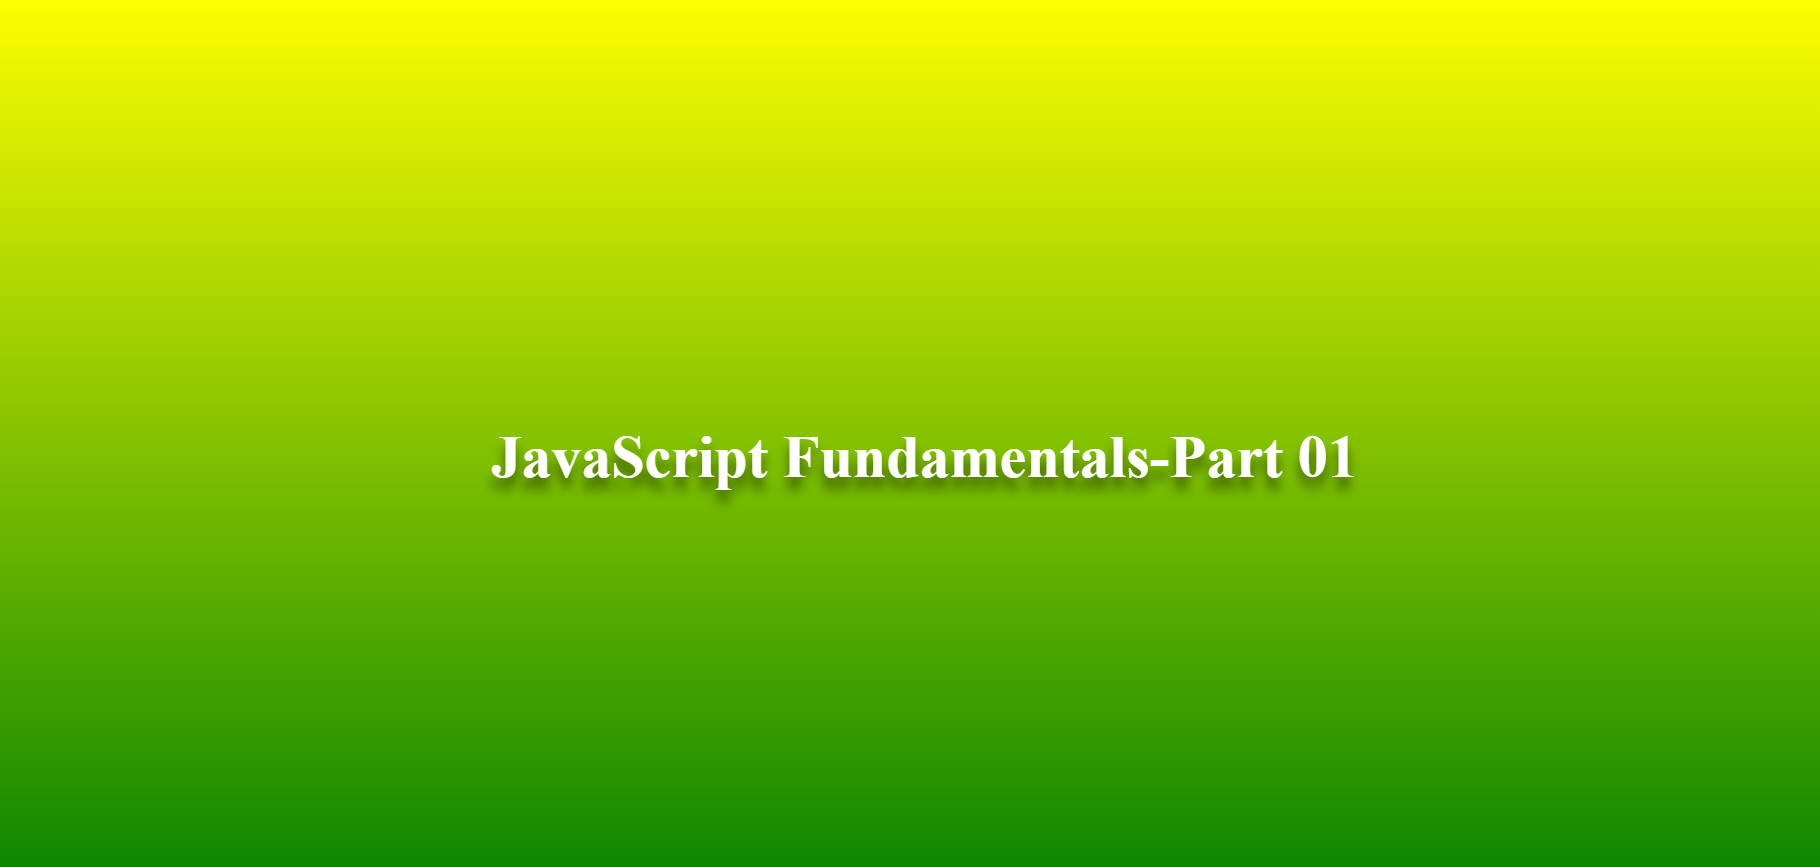
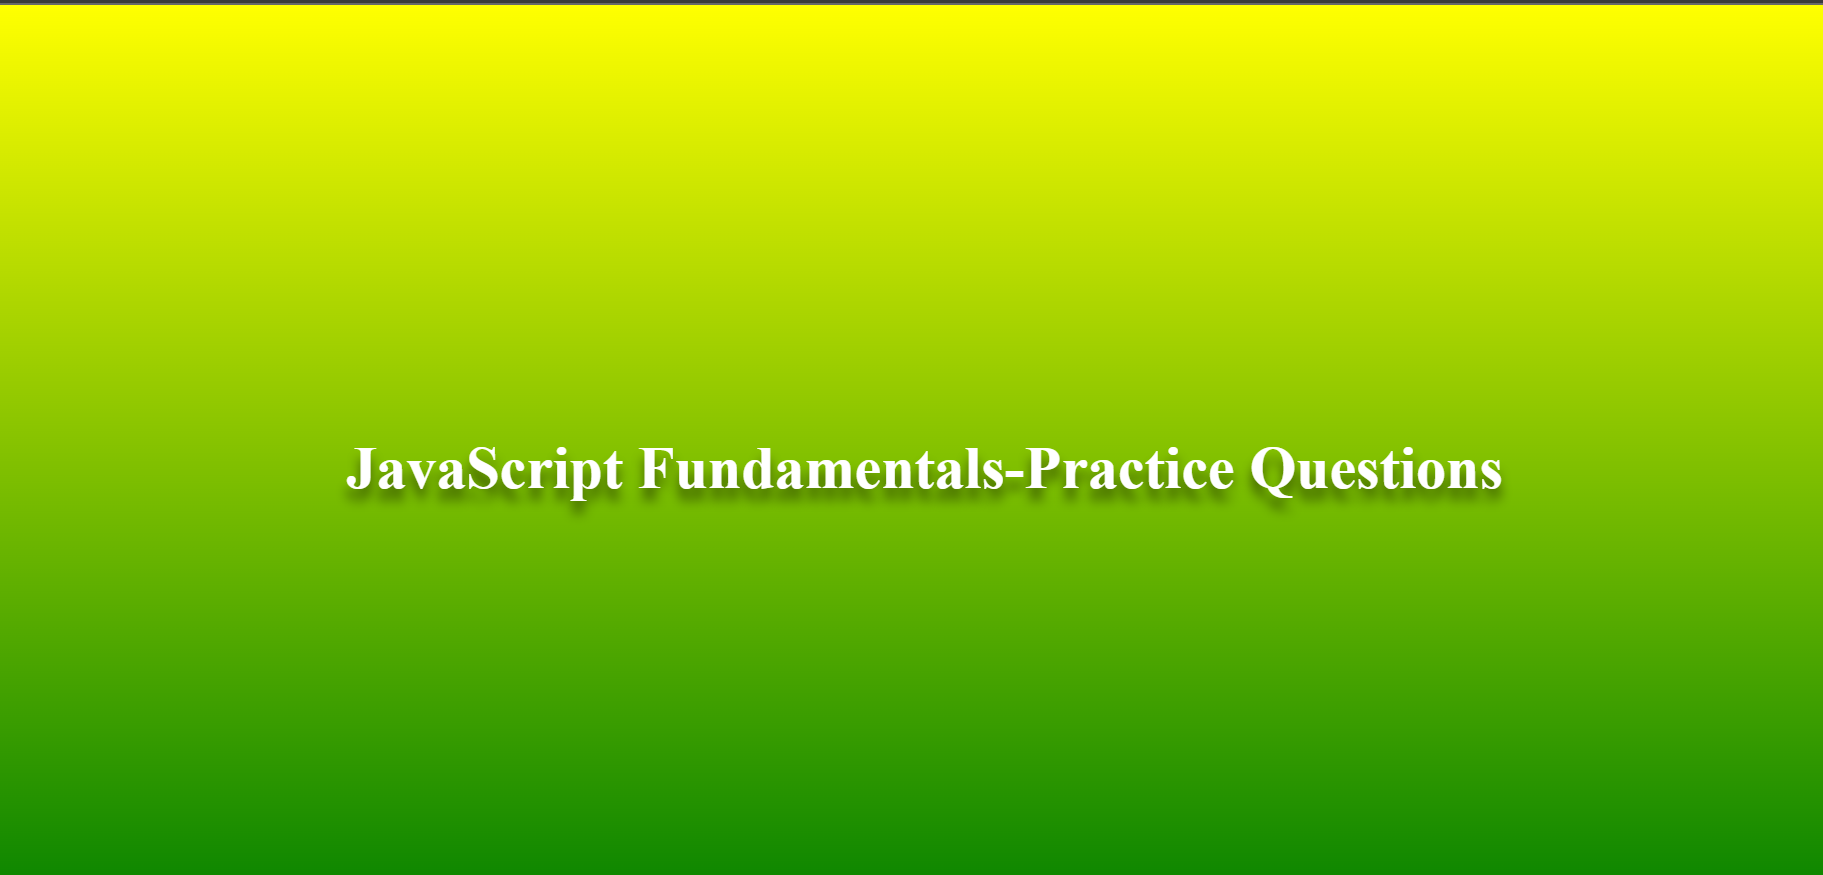
adding fundamental output

Changed region(s): [[0.1846, 0.4983, 0.8308, 0.5917], [0.0, 0.0, 1.0, 0.0311]]

diff --git a/js_Fundamental_part_01/Js-Fundamentals.html b/js_Fundamental_part_01/Js-Fundamentals.html
@@ -22,7 +22,7 @@
     </style>
 </head>
 <body>
-    <h1>JavaScript Fundamentals-Part 01</h1>
+    <h1>JavaScript Fundamentals-Practice Questions</h1>
     <script src="/js_Fundamental_part_01/challenge_01.js"></script>
 </body>
 </html>
